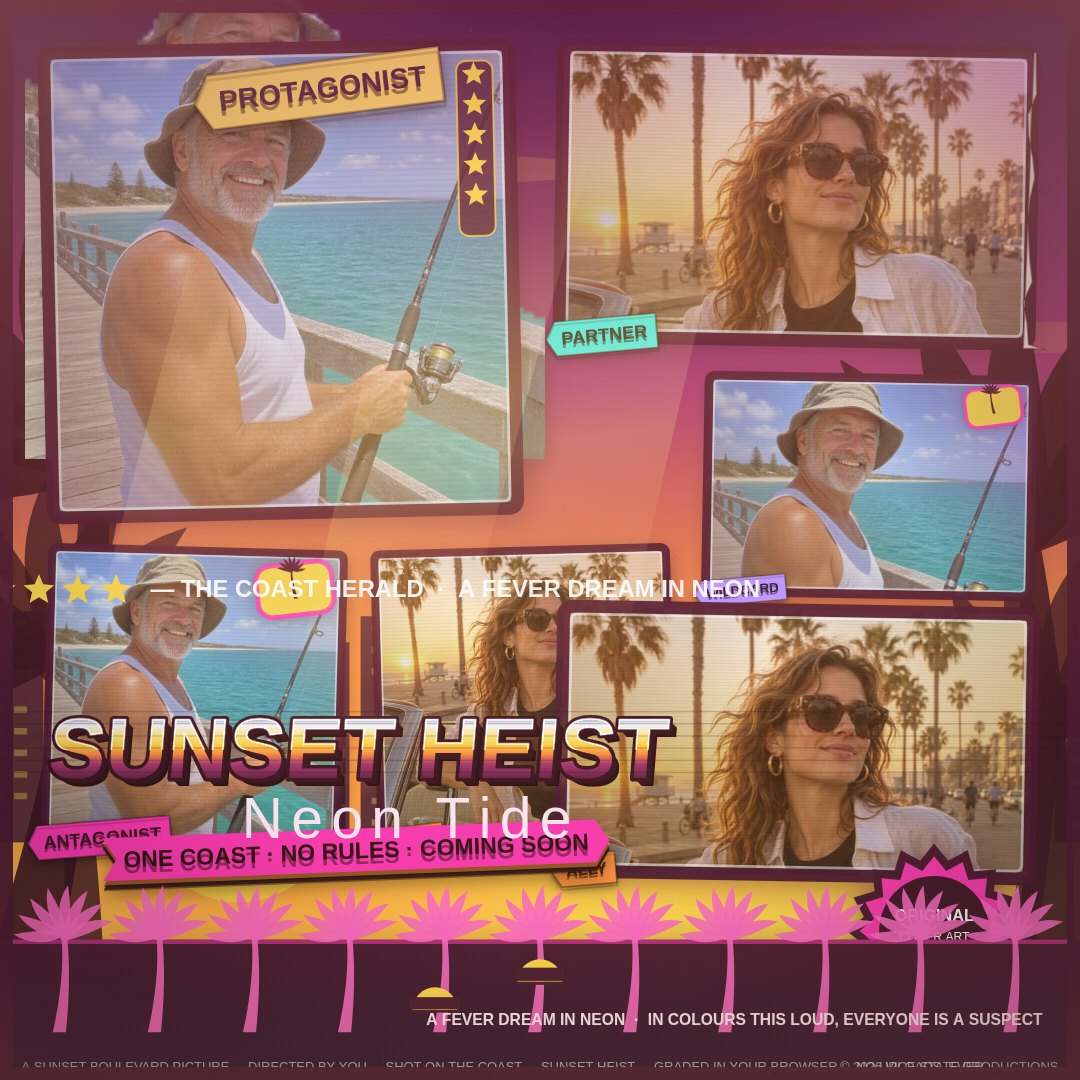
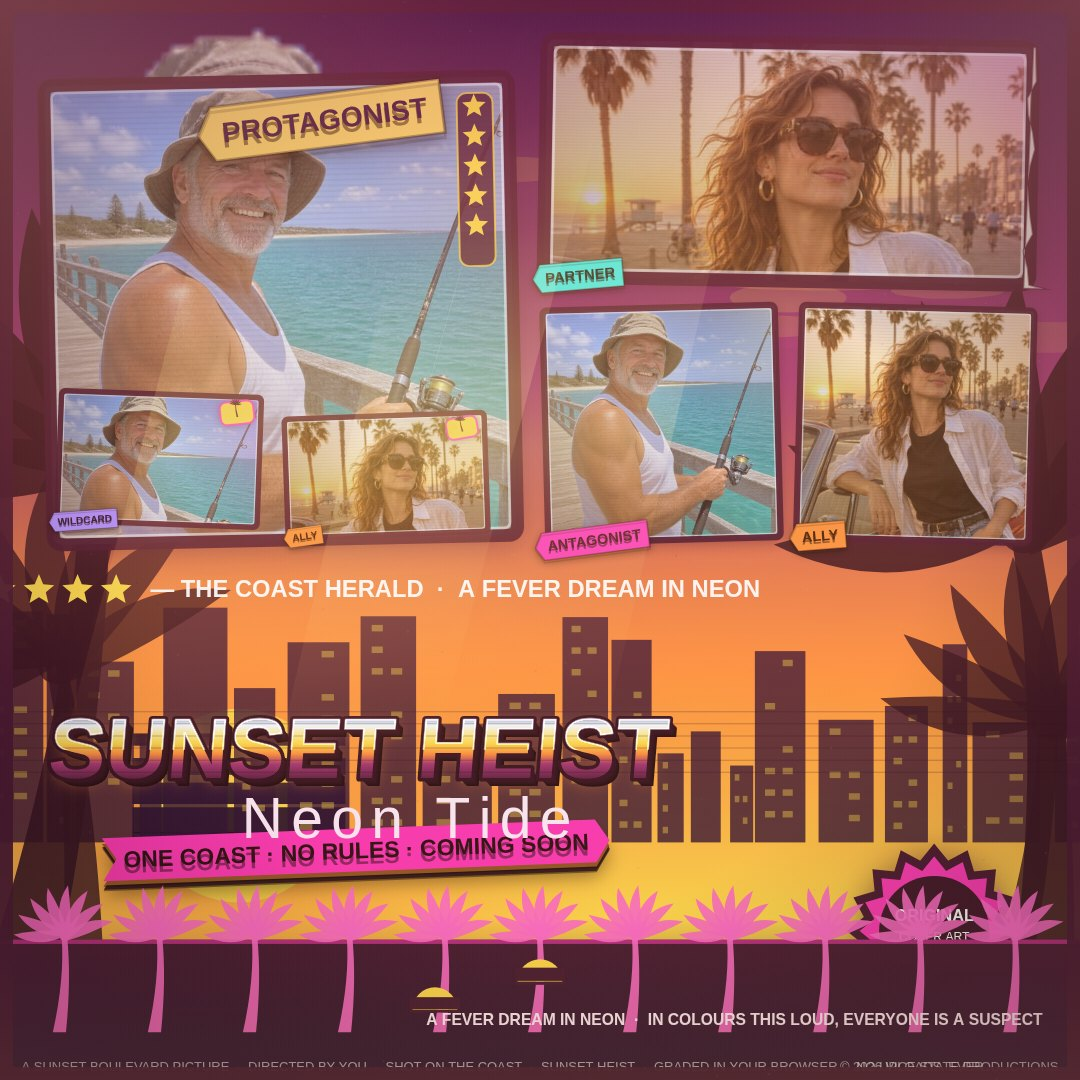
Polish: clear title zone on square grid, stronger pop-out hero overflow, photo dedupe across panels

diff --git a/app/src/cover.js b/app/src/cover.js
@@ -84,13 +84,16 @@ export const TEMPLATES = {
   collage: {
     name: "Collage",
     sizes: [1080, 1080],
+    // Square layout: every panel ends by y=.50 so the critic strip (~.55) and
+    // the title/tagline band below it are never crossed. Panels 5 and 6 are
+    // small prints stacked over the star panel's lower corners.
     panels: [
-      { x: .045, y: .045, w: .430, h: .430, tilt: -1.2, star: true },
-      { x: .520, y: .045, w: .435, h: .270, tilt: 1.0 },
-      { x: .045, y: .510, w: .270, h: .270, tilt: 1.5 },
-      { x: .350, y: .510, w: .270, h: .270, tilt: -1.5 },
-      { x: .655, y: .350, w: .300, h: .200, tilt: 1.0 },
-      { x: .520, y: .565, w: .435, h: .245, tilt: 1.0 },
+      { x: .045, y: .075, w: .430, h: .425, tilt: -1.2, star: true },
+      { x: .505, y: .040, w: .450, h: .220, tilt: 1.0 },
+      { x: .505, y: .285, w: .215, h: .215, tilt: -1.5 },
+      { x: .740, y: .285, w: .215, h: .215, tilt: 1.5 },
+      { x: .055, y: .365, w: .185, h: .120, tilt: 2.0 },
+      { x: .265, y: .385, w: .185, h: .110, tilt: -2.0 },
     ],
   },
 };
@@ -515,23 +518,43 @@ function drawHeroPopout(ctx, cut, rect, pal, eff) {
   const faceCx = rect.cx - dw / 2 + ox * rect.w + face.x / cutCanvas.width * dw;
   const faceCy = rect.cy - dh / 2 + oy * rect.h + face.y / cutCanvas.height * dh;
 
-  // Pop: scale 12% up around the face, then lift the cut-out so the head
-  // clearly overflows above the panel border.
-  const POP = 1.12;
+  // Pop: scale up around the face and lift the cut-out so the head clearly
+  // overflows above the panel's top border — the poster's signature move.
+  // Only the overflowing part is drawn (clipped to a band above the panel
+  // top edge): the panel photo itself already shows the in-frame body, and
+  // clipping keeps the blob's arm/prop pixels from sprawling into the title
+  // zone. The lift is derived from the blob's own extent, so a large face
+  // cluster can never push the head off the top of the poster.
+  const POP = 1.7;
   const scale2 = scale * POP;
   const dw2 = cutCanvas.width * scale2;
   const dh2 = cutCanvas.height * scale2;
-  const topLift = rect.h * .20;
+  // Anchor the popped face centre right on the panel's top edge, so the head
+  // straddles the frame line with the hat and eyes clearly outside the panel,
+  // then clamp so the visible top of the subject stays inside the canvas.
+  let dy = rect.cy - rect.h / 2 - (face.y / cutCanvas.height) * dh2;
+  // Clamp: the visible top of the popped subject stays just inside the canvas.
+  const blobTopFrac = 0;
+  const blobTop = dy + blobTopFrac * dh2;
+  const canvasTop = ctx.canvas.height * .02;
+  if (blobTop < canvasTop) dy += canvasTop - blobTop;
   const dx = faceCx - (face.x / cutCanvas.width) * dw2;
-  const dy = faceCy - (face.y / cutCanvas.height) * dh2 - topLift;
 
   ctx.save();
-  // The cut-out must not bury the lettering: keep it above the panel's
-  // vertical midline by trimming its draw extent, and add a soft shadow so
-  // the silhouette reads as lifted off the collage.
-  ctx.shadowColor = rgba(pal.deep, .5);
-  ctx.shadowBlur = rect.w * .05;
-  ctx.shadowOffsetY = rect.w * .015;
+  // Clip to the band above the panel's top edge (plus a small overlap so the
+  // head reads as connected to the body inside the frame), following the
+  // panel's tilt. Soft shadow on the cut-out so the silhouette reads as
+  // lifted off the collage.
+  ctx.beginPath();
+  ctx.moveTo(rect.cx - rect.w, rect.cy - rect.h / 2 + rect.h * .10);
+  ctx.lineTo(rect.cx + rect.w, rect.cy - rect.h / 2 + rect.h * .10);
+  ctx.lineTo(rect.cx + rect.w, 0);
+  ctx.lineTo(rect.cx - rect.w, 0);
+  ctx.closePath();
+  ctx.clip();
+  ctx.shadowColor = rgba(pal.deep, .55);
+  ctx.shadowBlur = rect.w * .10;
+  ctx.shadowOffsetY = rect.w * .028;
   ctx.drawImage(cutCanvas, dx, dy, dw2, dh2);
   ctx.restore();
 }
@@ -1322,10 +1345,15 @@ export async function renderCover(canvas, state) {
       ctx.restore();
     }
 
-    // Cast role tag ribbon; star panels pin it top-right so it never sits
-    // under the title band that overlays the lower canvas.
+    // Cast role tag ribbon; any panel whose lower edge reaches into the title
+    // zone (critic strip + title band, lower canvas) pins the tag top-right
+    // instead, so a tag can never sit on the title letters.
     if (photo.role) {
-      drawRoleTag(ctx, r, photo.role, pal, r.star ? "top-right" : "bottom-left");
+      const isTall = state.template === "grid5";
+      const titleZoneTop = H * (isTall ? .60 : .545);
+      const bottomEdge = r.cy + r.h / 2;
+      const pos = (bottomEdge > titleZoneTop || r.star) ? "top-right" : "bottom-left";
+      drawRoleTag(ctx, r, photo.role, pal, pos);
     }
 
     // Wanted stars: a vertical column in the star panel's top right corner.

diff --git a/app/src/main.js b/app/src/main.js
@@ -222,14 +222,17 @@ async function loadSamples() {
   ensurePhotos(panelCount());
   for (let i = 0; i < panelCount(); i++) {
     if (state.photos[i].img) continue;
-    // Never repeat the same sample in adjacent panels when both are free:
-    // prefer whichever photo the previous panel is not already using.
-    const prev = i > 0 ? state.photos[i - 1]?.src : null;
-    const url = prev && prev.endsWith("boulevard.jpg")
-      ? "samples/pier.jpg"
-      : prev && prev.endsWith("pier.jpg")
-        ? "samples/boulevard.jpg"
-        : `samples/${i % 2 === 0 ? "boulevard.jpg" : "pier.jpg"}`;
+    // Distribute samples across panels: pick the least-used sample so far
+    // (ties broken away from the previous panel's photo), so no sample piles
+    // up in several panels when both are free.
+    const used = state.photos.slice(0, i)
+      .map((p) => p.src || "").filter(Boolean);
+    const count = (name) => used.filter((s) => s.endsWith(name)).length;
+    const prev = i > 0 ? used[i - 1] : null;
+    const samples = ["boulevard.jpg", "pier.jpg"];
+    samples.sort((a, b) => count(a) - count(b)
+      || (prev && prev.endsWith(a) ? 1 : prev && prev.endsWith(b) ? -1 : 0));
+    const url = `samples/${samples[0]}`;
     const img = await loadImage(url);
     state.photos[i] = {
       img, src: url, zoom: 1 + (i % 3) * 0.15, ox: 0, oy: 0, seed: i + 3,
@@ -452,13 +455,16 @@ window.__vs = {
   document.documentElement.classList.add(`shot-${shot}`);
   await window.__vs.loadURL(0, `samples/${photo}.jpg`);
   for (let i = 1; i < panelCount(); i++) {
-    // Alternate, but never repeat the previous panel's photo when both
-    // samples are available.
-    const prev = state.photos[i - 1]?.src || "";
-    const next = prev.endsWith("pier.jpg") ? "boulevard.jpg"
-      : prev.endsWith("boulevard.jpg") ? "pier.jpg"
-      : (i % 2 === 0 ? "boulevard.jpg" : "pier.jpg");
-    await window.__vs.loadURL(i, `samples/${next}`);
+    // Distribute the available samples: least-used so far wins, ties broken
+    // away from the previous panel's photo (and away from panel 0's photo on
+    // the first pick) so no sample repeats in adjacent or stacked panels.
+    const used = state.photos.slice(0, i).map((p) => p.src || "").filter(Boolean);
+    const count = (name) => used.filter((s) => s.endsWith(name)).length;
+    const prev = used.length ? used[used.length - 1] : "";
+    const samples = ["boulevard.jpg", "pier.jpg"];
+    samples.sort((a, b) => count(a) - count(b)
+      || (prev.endsWith(a) ? 1 : prev.endsWith(b) ? -1 : 0));
+    await window.__vs.loadURL(i, `samples/${samples[0]}`);
   }
   await window.__vs.render();
   document.title = "ready";
